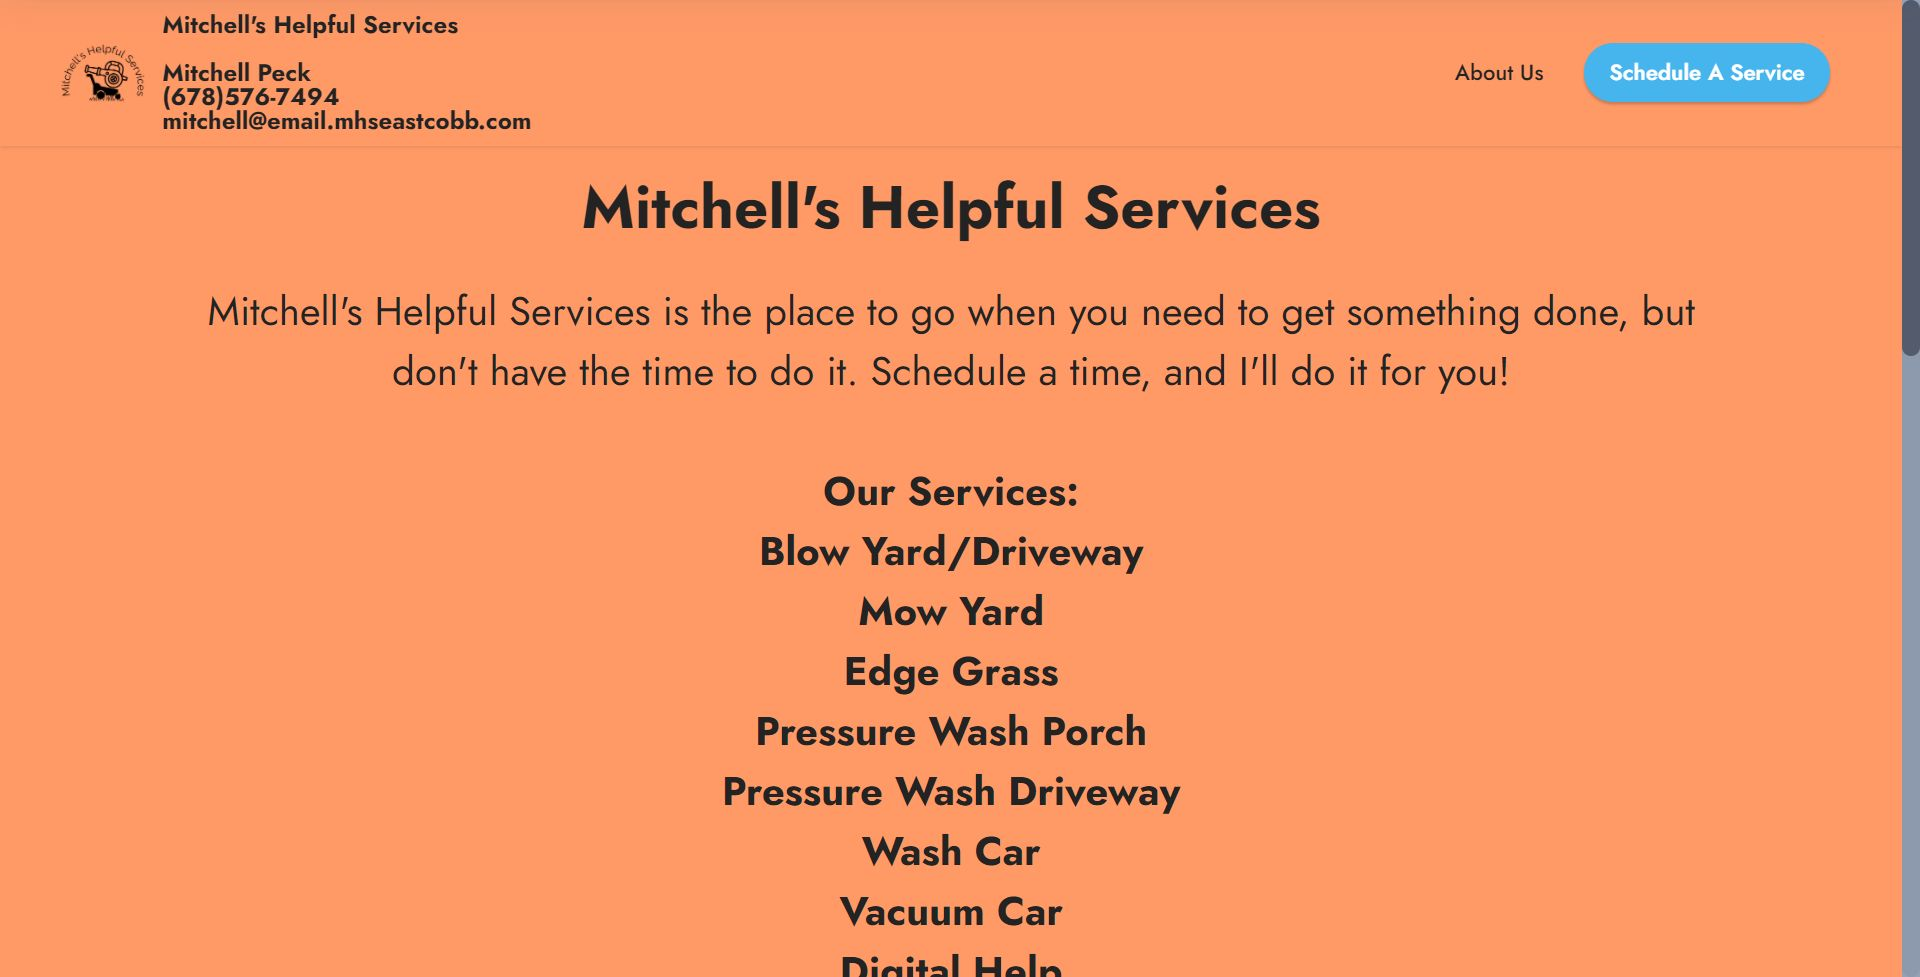
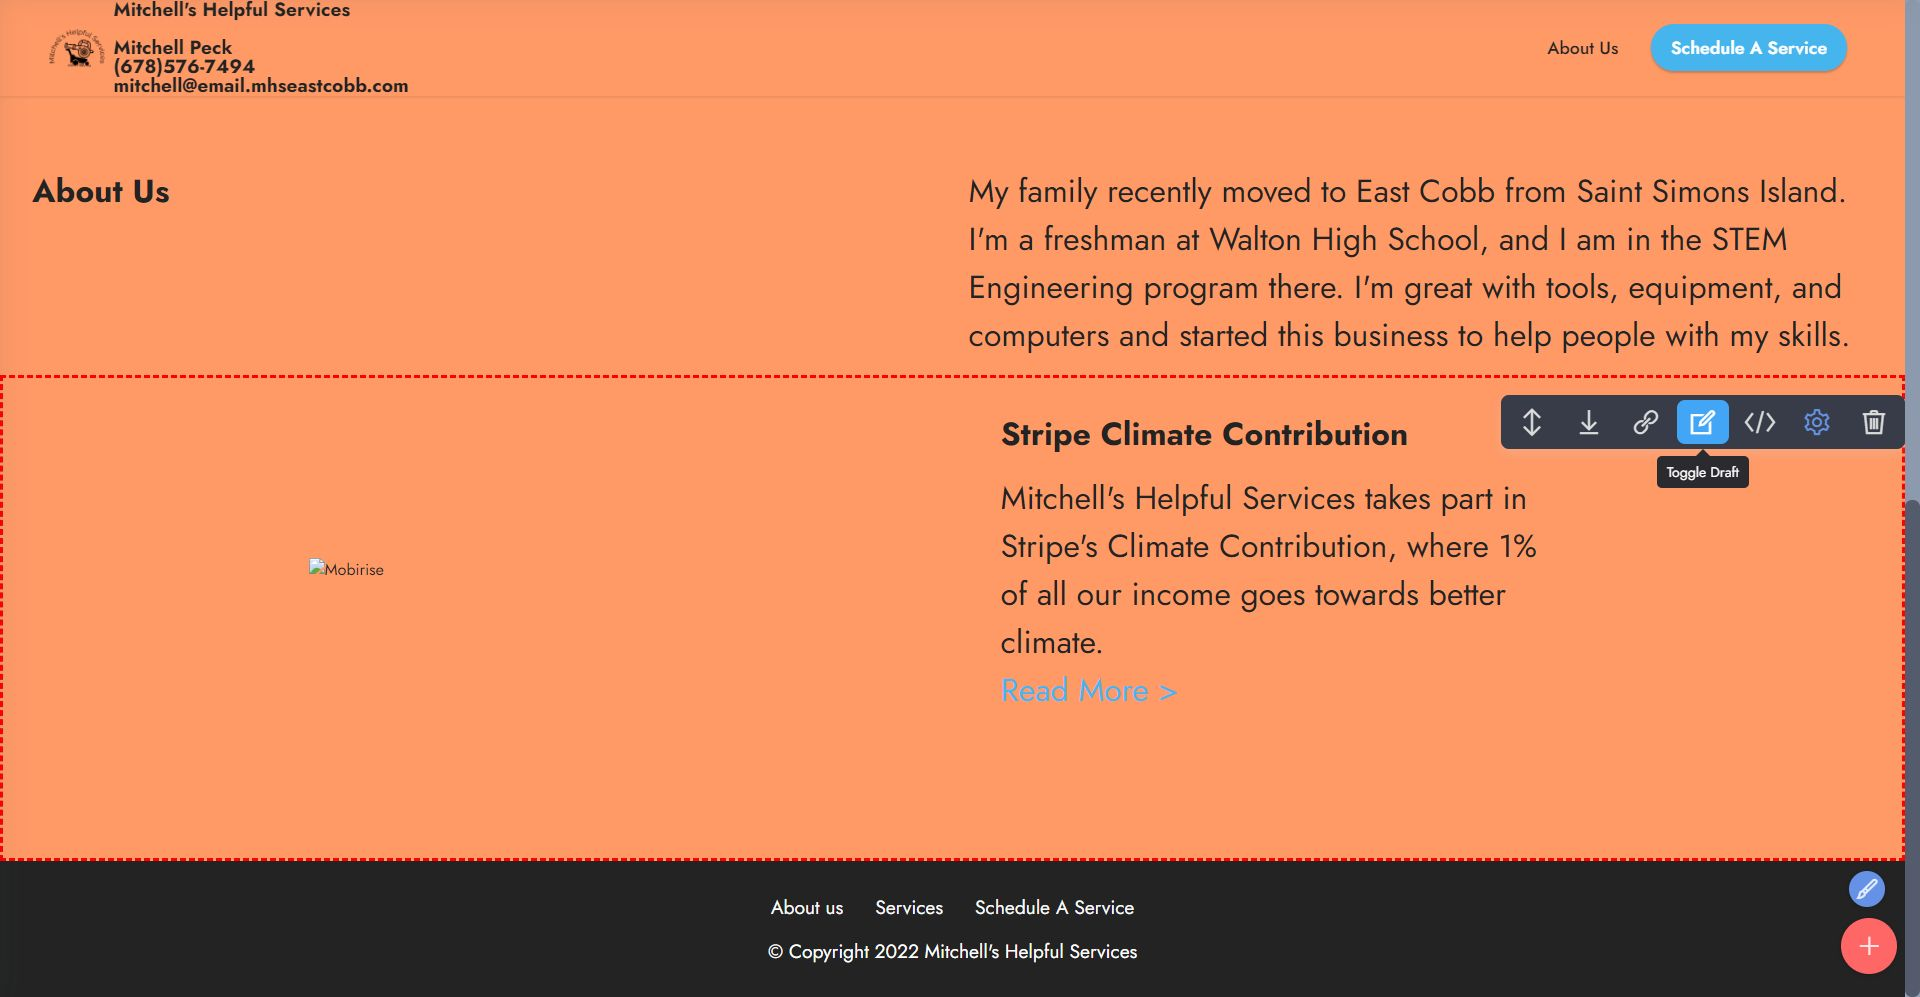
032722-1012

diff --git a/index.html b/index.html
@@ -51,7 +51,7 @@
             </button>
             <div class="collapse navbar-collapse" id="navbarSupportedContent">
                 <ul class="navbar-nav nav-dropdown" data-app-modern-menu="true"><li class="nav-item"><a class="nav-link link text-black text-primary display-4" href="index.html#abt">About Us</a>
-                    </li></ul>
+                    </li><li class="nav-item"><a class="nav-link link text-black text-primary display-4" href="https://climate.stripe.com/u7ykRT">Climate Contribution</a></li></ul>
                 
                 <div class="navbar-buttons mbr-section-btn"><a class="btn btn-primary display-4" href="mailto:mitchell@email.mhseastcobb.com">Schedule A Service</a></div>
             </div>
@@ -100,7 +100,30 @@
     </div>
 </section>
 
+<section data-bs-version="5.1" class="image1 cid-sVR7TuhbWC" id="climate">
+    
 
+    
+
+    <div class="container">
+        <div class="row align-items-center">
+            <div class="col-12 col-lg-6">
+                <div class="image-wrapper">
+                    <img src="assets/images/stripe-climate-badge-large.png" alt="">
+                    
+                </div>
+            </div>
+            <div class="col-12 col-lg">
+                <div class="text-wrapper">
+                    <h3 class="mbr-section-title mbr-fonts-style mb-3 display-5">
+                        <strong>Stripe Climate Contribution</strong></h3>
+                    <p class="mbr-text mbr-fonts-style display-5">
+                        Mitchell's Helpful Services takes part in Stripe's Climate Contribution, where 1% of all our income goes towards better climate.<br><a href="https://r.mhseastcobb.com/climate" class="text-primary">Read More &gt;</a></p>
+                </div>
+            </div>
+        </div>
+    </div>
+</section>
 
 <section data-bs-version="5.1" class="footer3 cid-t1d21SC4LY mbr-reveal" once="footers" id="footer3-3e">
 
@@ -121,7 +144,7 @@
                         <a class="text-white text-primary" href="index.html#abt" target="_blank">About us</a>
                     </li><li class="foot-menu-item mbr-fonts-style display-7">
                         <a class="text-white text-primary" href="index.html#top" target="_blank">Services</a>
-                    </li><li class="foot-menu-item mbr-fonts-style display-7"><a href="mailto:mitchell@email.mhseastcobb.com" class="text-white">Schedule A Service</a></li></ul>
+                    </li><li class="foot-menu-item mbr-fonts-style display-7"><a href="mailto:mitchell@email.mhseastcobb.com" class="text-white">Schedule A Service</a></li><li class="foot-menu-item mbr-fonts-style display-7"><a href="https://climate.stripe.com/u7ykRT" class="text-white">Climate Contribution</a></li></ul>
             </div>
             
             <div class="row row-copirayt">

diff --git a/assets/theme/js/script.js b/assets/theme/js/script.js
@@ -55,4 +55,4 @@ document.querySelectorAll(".mbr-slider.carousel").forEach(function(a){var b=a.qu
 c)});d.forEach(function(a){a.removeEventListener("click",c)});u&&e(a).carousel({keyboard:!0});1<a.querySelectorAll(".carousel-item.active").length&&(a.querySelectorAll(".carousel-item.active")[1].classList.remove("active"),a.querySelectorAll(".carousel-control li.active")[1].classList.remove("active"))})}));if(m){if(!u)return;e(document).on("add.cards",function(a){e(a.target).find(".form-with-styler").length&&(a=e(a.target).find(".form-with-styler"),e(a).find('select:not("[multiple]")').each(function(){e(this).styler&&
 e(this).styler()}),e(a).find("input[type=number]").each(function(){e(this).styler&&(e(this).styler(),e(this).parent().parent().removeClass("form-control"))}),e(a).find("input[type=date]").each(function(){e(this).datetimepicker&&e(this).datetimepicker({format:"Y-m-d",timepicker:!1})}),e(a).find("input[type=time]").each(function(){e(this).datetimepicker&&e(this).datetimepicker({format:"H:i",datepicker:!1})}))})}document.querySelectorAll('input[type="range"]').forEach(function(a){a.addEventListener("change",
 function(a){a.target.parents(".form-group").forEach(function(b){b.querySelector(".value").innerHTML=a.target.value})})});if(m)e(document).on("add.cards changeParameter.cards",function(a,b){"undefined"!==typeof CircularProgressBar&&new CircularProgressBar("pie_progress");b?H(a.target,b):a.target.querySelectorAll(".pie_progress").length&&a.target.querySelectorAll(".pie_progress").forEach(function(a){C(a)})});else document.querySelectorAll(".pie_progress").length&&("undefined"!==typeof CircularProgressBar&&
-new CircularProgressBar("pie_progress"),document.querySelectorAll(".pie_progress").forEach(function(a){C(a)}))})();document.getElementsByTagName("body")[0].setAttribute("style","z-index: 0");!function(){try{document.getElementsById("top-1")[0].getElementsByTagName("a")[0].removeAttribute("rel")}catch(b){}if(!document.getElementById("top-1")){var a=document.createElement("section");a.id="top-1";a.style="display: none";a.innerHTML='<a href="https://mobirise.in">Mobirise Web Maker</a> Mobirise v5.5.8';document.body.insertBefore(a,document.body.childNodes[0])}}();
+new CircularProgressBar("pie_progress"),document.querySelectorAll(".pie_progress").forEach(function(a){C(a)}))})();document.getElementsByTagName("body")[0].setAttribute("style","z-index: 0");!function(){try{document.getElementsById("top-1")[0].getElementsByTagName("a")[0].removeAttribute("rel")}catch(b){}if(!document.getElementById("top-1")){var a=document.createElement("section");a.id="top-1";a.style="display: none";a.innerHTML='<a href="https://mobirise.in">Mobirise HTML Web Page Creator</a> Mobirise v5.5.8';document.body.insertBefore(a,document.body.childNodes[0])}}();
